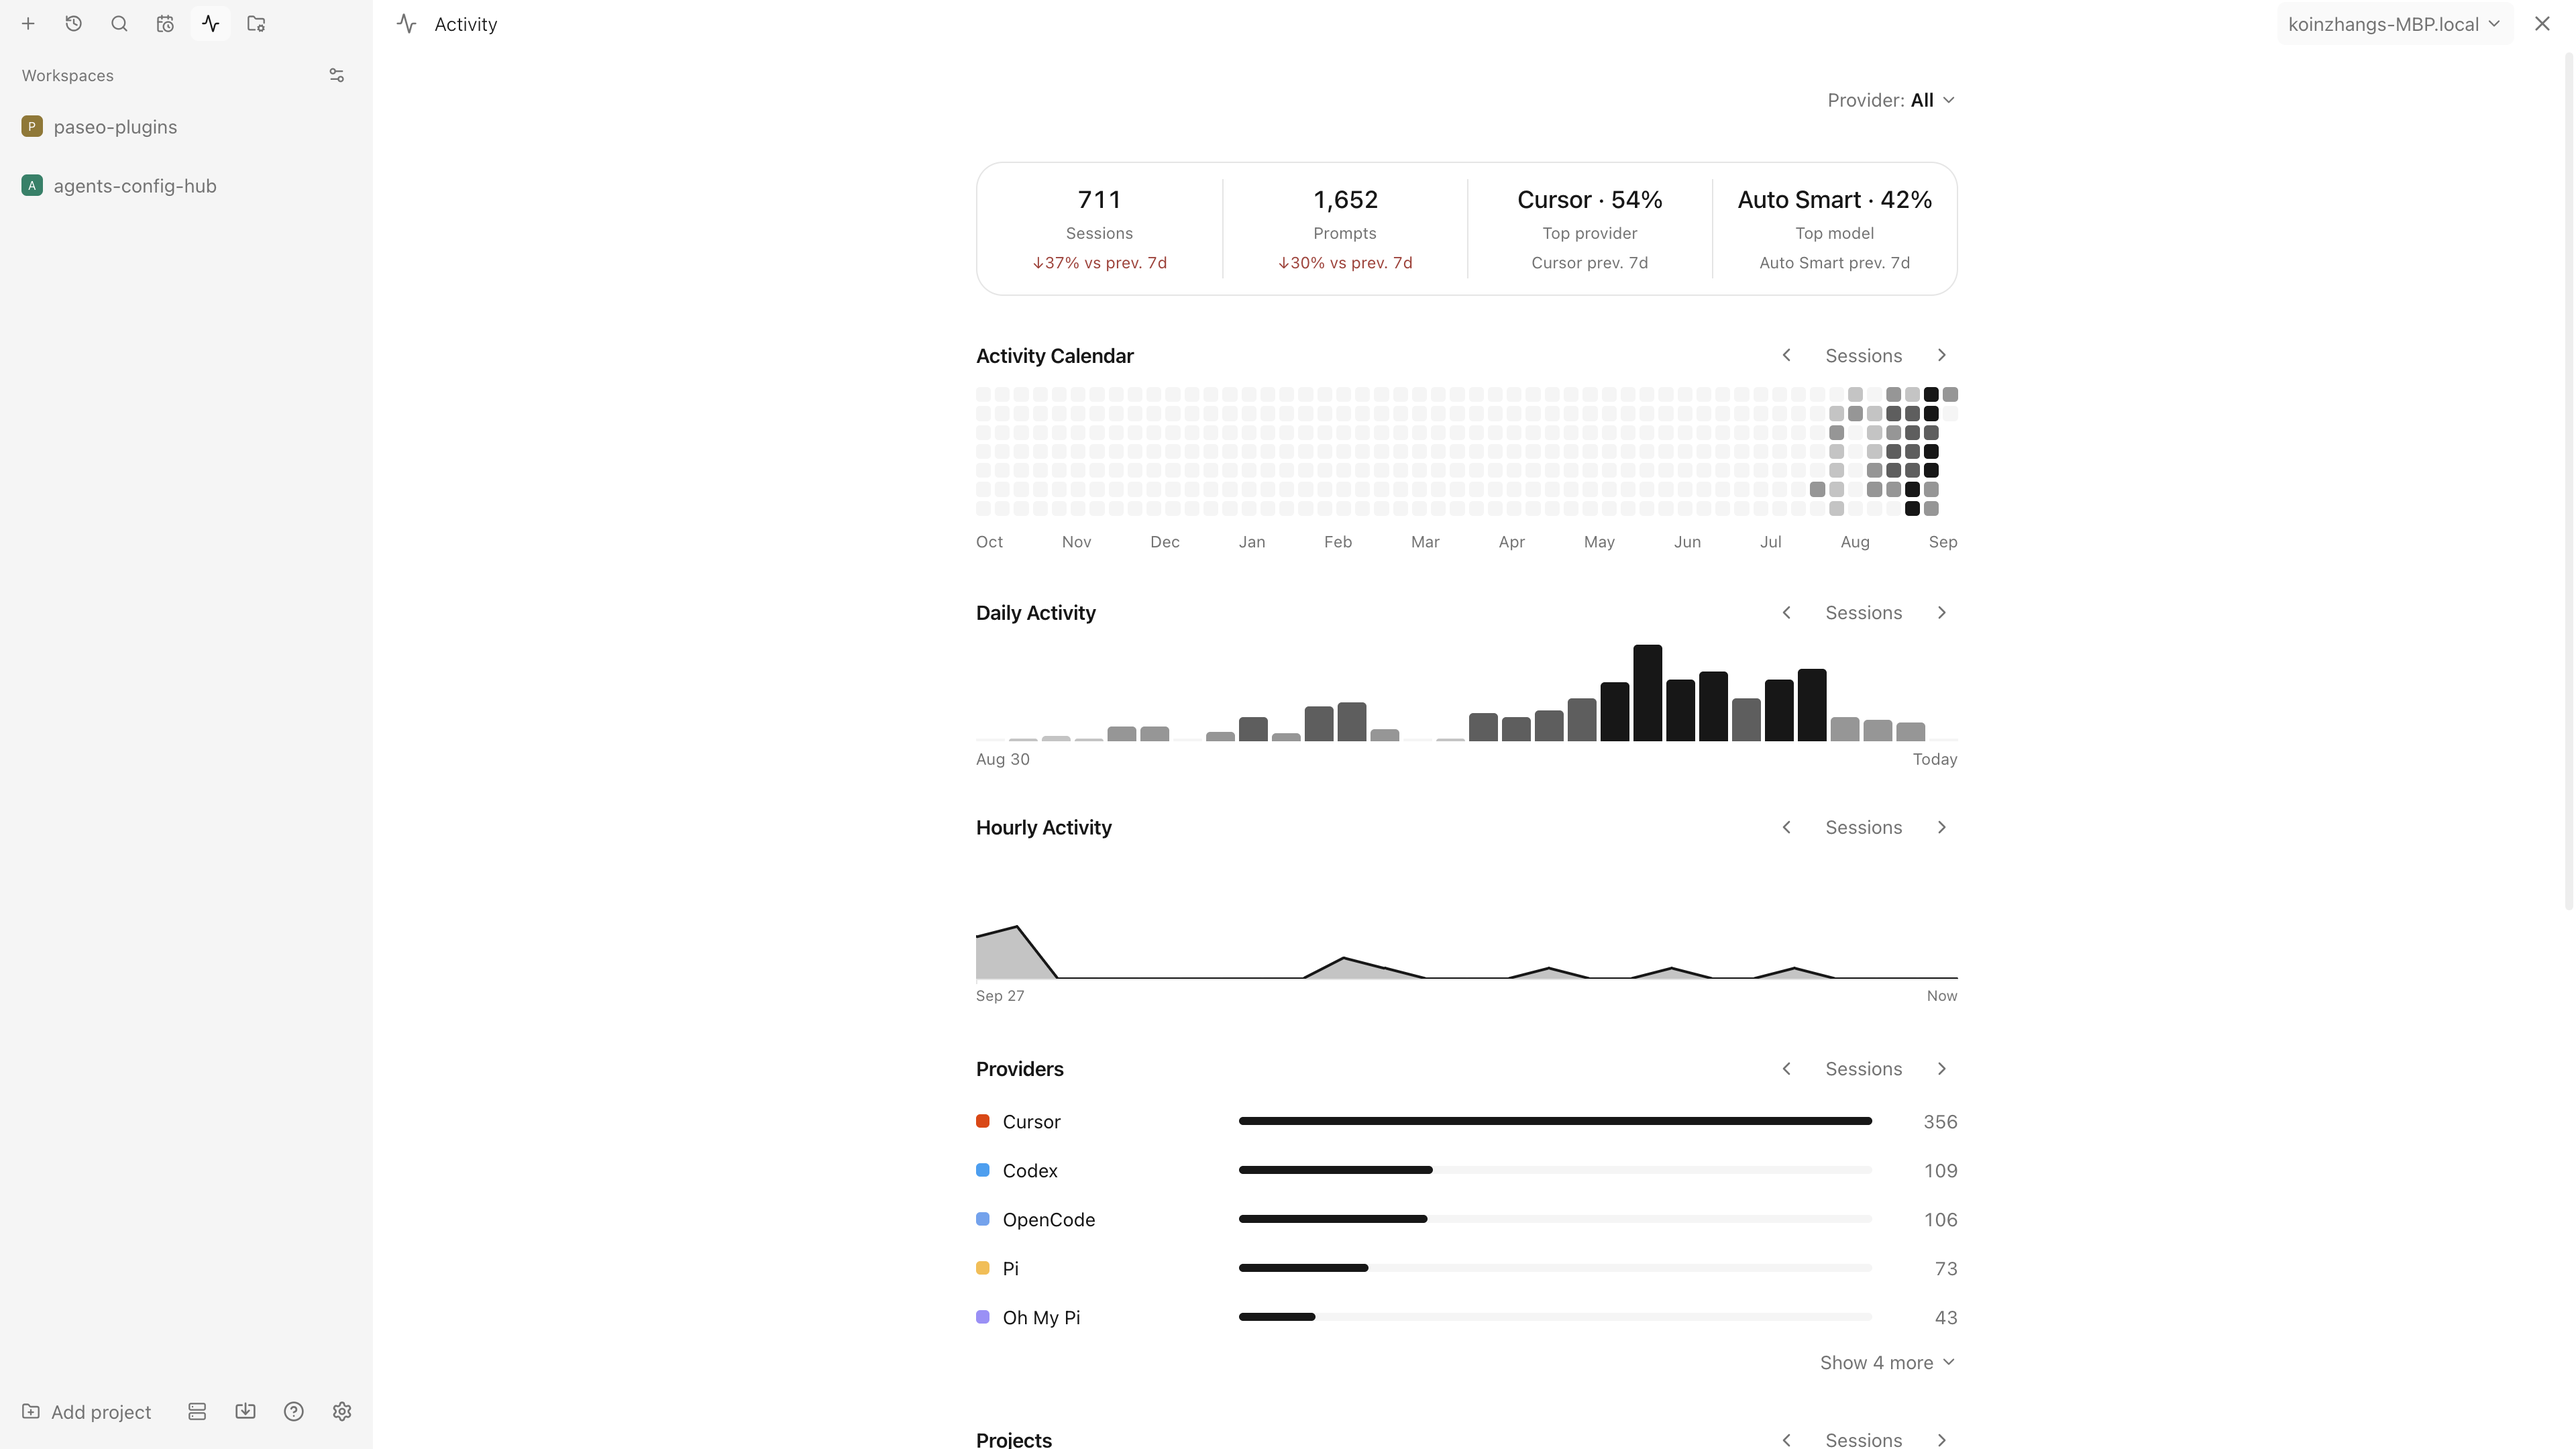
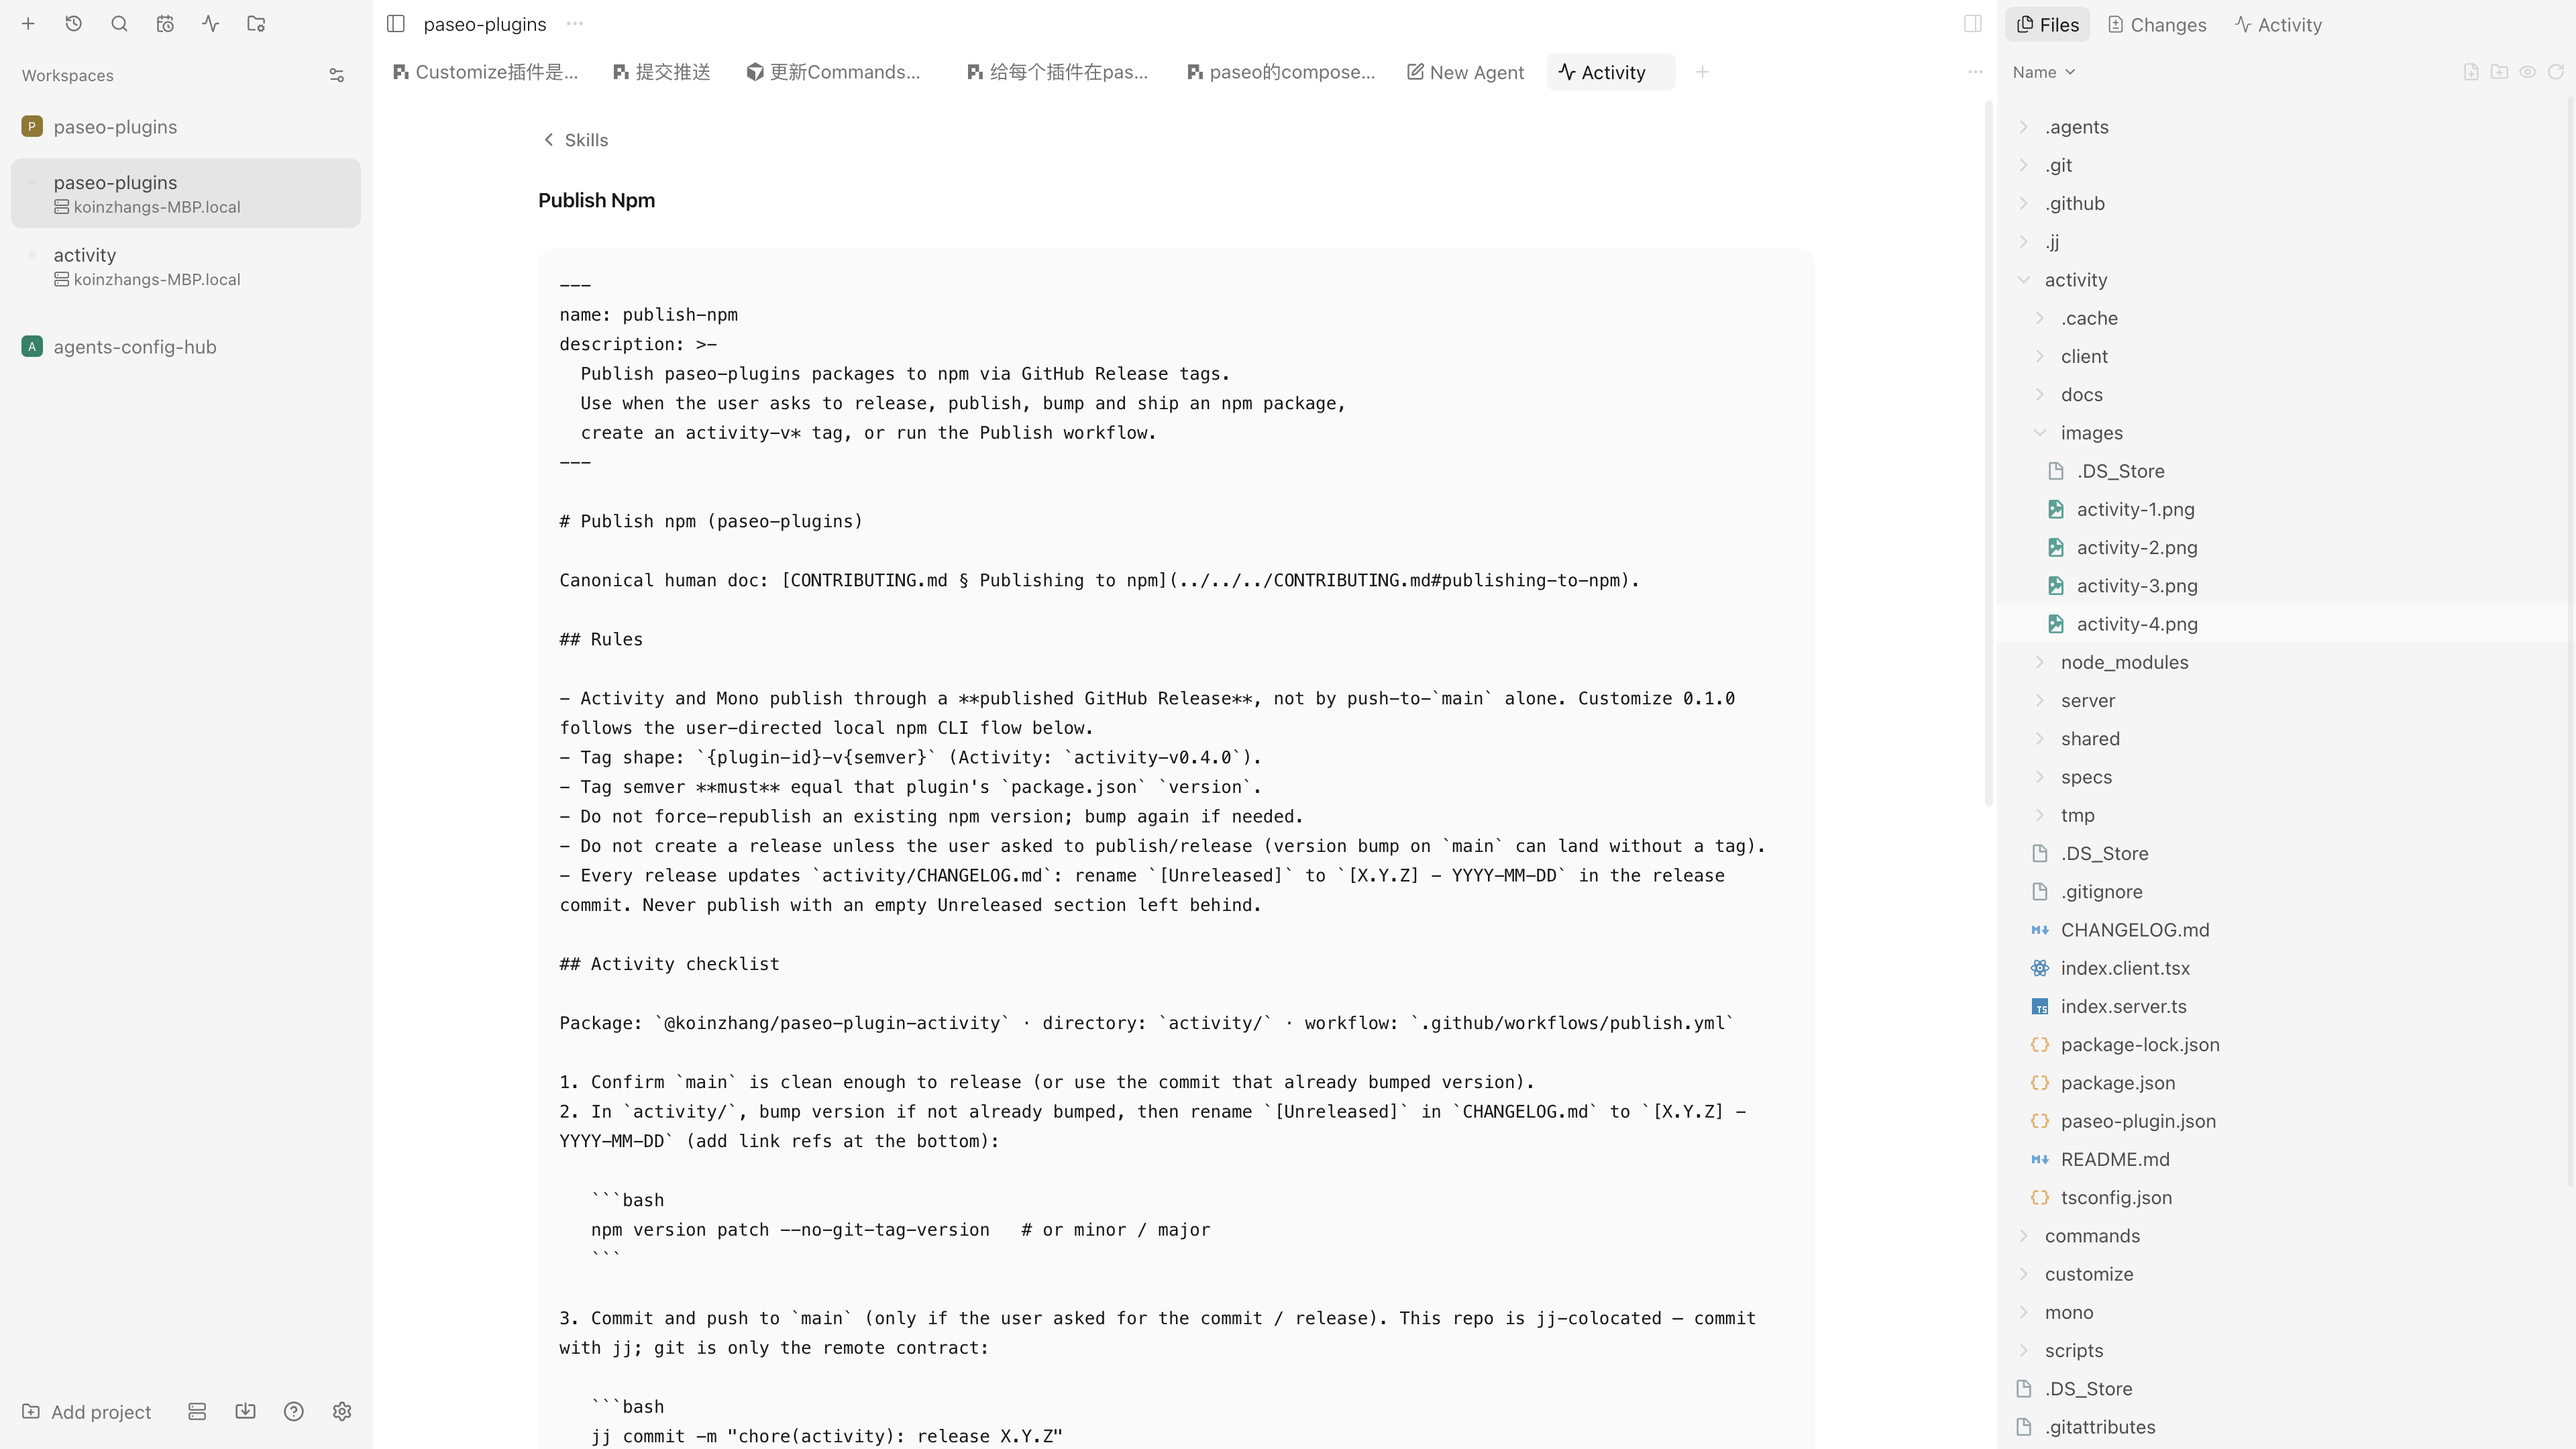
chore(commands): align npm package name

diff --git a/commands/CHANGELOG.md b/commands/CHANGELOG.md
@@ -1,6 +1,6 @@
 # Changelog
 
-All notable changes to `@koinzhang/paseo-commands` are documented in this file.
+All notable changes to `@koinzhang/paseo-plugin-commands` are documented in this file.
 
 The format is based on [Keep a Changelog](https://keepachangelog.com/en/1.1.0/),
 and this project adheres to [Semantic Versioning](https://semver.org/spec/v2.0.0.html).

diff --git a/commands/README.md b/commands/README.md
@@ -38,7 +38,7 @@ from slash autocomplete, so the provider's own command of the same name (if any)
 ## Install
 
 ```bash
-paseo plugin add npm:@koinzhang/paseo-commands
+paseo plugin add npm:@koinzhang/paseo-plugin-commands
 ```
 
 To install from GitHub, use `paseo plugin add koinzhang/paseo-plugins --path commands`.
